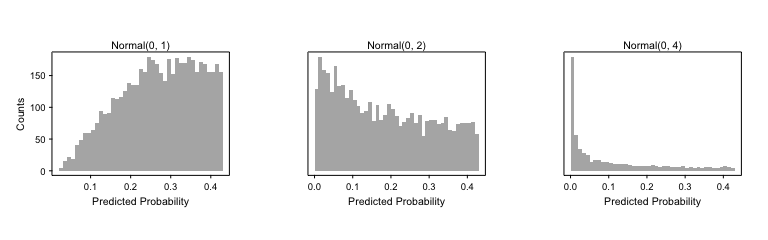
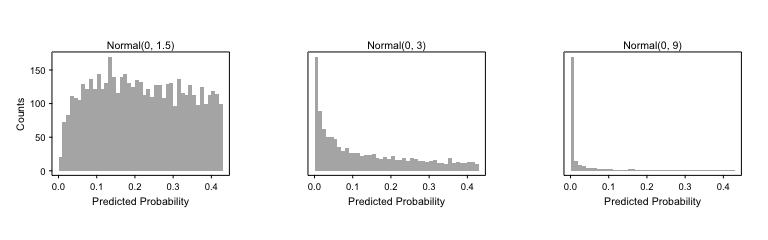
update README

diff --git a/README.md b/README.md
@@ -13,7 +13,77 @@ devtools::install_github("carlislerainey/separation")
 
 The idea is simple. In order to draw meaningful inferences when facing separation, you must choose an informative prior. This can be tricky with logistic regression models, because the coefficients are not on a scale that many researchers are comfortable with. To facilitate choose a reasonable, informative prior, researchers might focus on the partial prior predictive distribution, explained in the paper linked to above. The partial prior distribution allows researchers to focus on the usual quantities of interest, such as predicted probabilities, first-differences, and risk-ratios. Researchers can use this package to what prior distributions for the coefficients imply about the partial prior preditive distribution, which is easier to make sense of.
 
-We can first calculate and summarize the PPPD for an "informative" prior distribution.
+Let's look at a simple example. Suppose we estimate a simple model explaining governors' decisions to oppose the Medicaid expansion under the Affordable Care Act. In particular, we'd like to draw a conclusion about whether a governor's partisanship matters more than the level of need in her state. We might estimate a simple model using the data from [Barrilleaux and Rainey](http://www.carlislerainey.com/papers/need.pdf), which is included in the package `separation` installed above.
+
+
+```r
+data(politics_and_need)
+m <- glm(oppose_expansion ~ gop_governor + percent_uninsured, 
+         family = binomial, data = politics_and_need)
+
+library(texreg)  # for screenreg, which neatly prints the results
+```
+
+```
+## Version:  1.33
+## Date:     2014-07-21
+## Author:   Philip Leifeld (University of Konstanz)
+## 
+## Please cite the JSS article in your publications -- see citation("texreg").
+```
+
+```r
+screenreg(m)
+```
+
+```
+## 
+## ============================
+##                    Model 1  
+## ----------------------------
+## (Intercept)          -20.92 
+##                    (2370.03)
+## gop_governor          19.46 
+##                    (2370.03)
+## percent_uninsured      0.10 
+##                       (0.10)
+## ----------------------------
+## AIC                   46.33 
+## BIC                   52.07 
+## Log Likelihood       -20.17 
+## Deviance              40.33 
+## Num. obs.             50    
+## ============================
+## *** p < 0.001, ** p < 0.01, * p < 0.05
+```
+
+You'll notice that we have separation, because no Democratic governors opposed the expansion, the variable `gop_governor` perfectly predicts zeros. We can see this in a table.
+
+
+```r
+xtabs(~ oppose_expansion + gop_governor, data = politics_and_need)
+```
+
+```
+##                 gop_governor
+## oppose_expansion  0  1
+##                0 20 14
+##                1  0 16
+```
+
+This separation leads to implausibly large estimates for the coefficient for `gop_governor` and, because the perfect prediction occurs when `gop_governor` equals one, the intercept as well. Notice, perhaps most importantly, that the standard errors are unusable as well.
+
+To get a handle on this, we need to provide some form of prior information to stablize the coefficient for `gop_governor`, which will in turn provide a reasonable estimate for the intercept. But what prior should we choose for `gop_governor`? A N(0, 2)? and N(0, 4)? What? To help make this choice, I introduce the concept of a partial prior predictive distribution that allows researchers to focus narrowly on a single region of the prior distribute--the only part that really matters. See [the paper](http://www.carlislerainey.com/papers/separation.pdf) for the details. 
+
+We have three quantities of interest that we might choose to focus on.
+
+1. predicted probability: The probability that a Democratic governor opposes the expansion.
+2. first-difference: The change in the probability of expansion as a governor's partisanship changes from Democrat to Republican.
+3. risk-ratio: How many times more likely is a Republican governor to oppose the expansion compared to a Democratic governor.
+
+In this case, it seems reasonable to focus on the probability that a Democratic governor opposes the expansion. That also happens to be the default quantity for the functions.
+
+Let's choose a N(0, 3) as a first guess at an "informative" prior distribution. (I know this is a reasonable choice because I experimented a little before writing this.) We first need to simulate from our chosen prior and then we can convert those simulation into simulations of predicted probabilities using the function `calc_pppd()`.
 
 
 ```r
@@ -23,36 +93,43 @@ library(separation)
 # load data
 data(politics_and_need)
 
-# simulate from potential priors
-normal_1 <- rnorm(10000, sd = 1)
-normal_2 <- rnorm(10000, sd = 2)
-normal_4 <- rnorm(10000, sd = 4)
+# simulate from potential prior
+normal_3 <- rnorm(10000, sd = 3)
 
 # model formula
 f <- oppose_expansion ~ gop_governor + percent_favorable_aca + percent_uninsured
 
 # informative prior
-pppd_inf <- calc_pppd(f, data = politics_and_need, prior_sims = normal_2,     
-                   sep_var_name = "gop_governor", prior_label = "Normal(0, 2)")
+pppd_inf <- calc_pppd(f, data = politics_and_need, prior_sims = normal_3,     
+                   sep_var_name = "gop_governor", prior_label = "Normal(0, 3)")
+```
 
-# summarize the pppd from the informative prior
+We can summarize the percentiles of the distrubiotn with the generic `print()` function.
+
+
+```r
 print(pppd_inf)
 ```
 
 ```
 ## 
 ## Model:	oppose_expansion ~ gop_governor + percent_favorable_aca + percent_uninsured
-## Prior for gop_governor:	Normal(0, 2)
+## Prior for gop_governor:	Normal(0, 3)
 ## 
 ##    percentile	predicted probability	first-difference	risk-ratio	
-##    1%		0.005			0.006			1.014			
-##    5%		0.014			0.028			1.071			
-##    25%		0.069			0.14			1.483			
-##    50%		0.166			0.262			2.58			
-##    75%		0.289			0.359			6.17			
-##    95%		0.4			0.414			29.71			
-##    99%		0.422			0.424			89.29			
+##    1%		0			0.009			1.022			
+##    5%		0.002			0.046			1.12			
+##    25%		0.024			0.21			1.962			
+##    50%		0.089			0.34			4.83			
+##    75%		0.218			0.404			17.61			
+##    95%		0.383			0.426			201.2			
+##    99%		0.419			0.428			1551			
 ```
+
+That looks reasonable. There is an even chance of the probabilty of opposition falling above and below 0.09, which seems about right. Also, there is a 25% chance that the probability falls below 0.02, which also seems like a reasonable prior belief.
+
+To get an even better feel for this PPPD, we can use the generic `plot()` function to plot the distribution of the predicted probability.
+
 
 ```r
 plot(pppd_inf)
@@ -60,19 +137,61 @@ plot(pppd_inf)
 
 ![plot of chunk inf](inf.png) 
 
-We might also like to compare that to a "skeptical" and "enthusiastic prior"" distribution.
+If we care about the distribution for the tiny probabilities, we can plot the distribution on the log scale. 
 
 
 ```r
+plot(pppd_inf, log_scale = TRUE)
+```
+
+![plot of chunk inf-log](inf-log.png) 
+
+Again, the purpose of the prior distribution in dealing with separation is to rule out implausible large effects. Plotting on the log scale allows us to see exactly what predicted probabilities we are ruling out. We are essentially ruling out probabilities smaller than 0.001, which seems reasonable. 
+
+If we want, we can calculate the probability of falling below certain thresholds.
+
+
+```r
+mean(pppd_inf$pr < 0.01)
+```
+
+```
+## [1] 0.1441
+```
+
+```r
+mean(pppd_inf$pr < 0.001)
+```
+
+```
+## [1] 0.02811
+```
+
+From this we can see that there is a probability of 0.15 that less than 1% of Democratic governors oppose the expansion and a probability of 0.025 that less than 0.1% of Democratic governors oppose the expansion. Again, these seem reasonable.
+
+We might also like to compare our informative prior to a "skeptical" and "enthusiastic" prior distribution. For simplicity, let's go with half and double the standard deviation of the informative prior, respectively. We can calculate the PPPD for these distributions as before and use the `combine_pppd()` function to put them together and then the generic `plot()` function for plotting.
+
+
+```r
+# simulate from potential skeptical and enthusiastic priors
+normal_1 <- rnorm(10000, sd = 1.5)
+normal_4 <- rnorm(10000, sd = 9)
+
 # enthusiastic and skeptical prior
 pppd_enth <- calc_pppd(f, data = politics_and_need, prior_sims = normal_4, 
-                   sep_var_name = "gop_governor", prior_label = "Normal(0, 4)")
+                   sep_var_name = "gop_governor", prior_label = "Normal(0, 9)")
 pppd_skep <- calc_pppd(f, data = politics_and_need, prior_sims = normal_1, 
-                   sep_var_name = "gop_governor", prior_label = "Normal(0, 1)")
+                   sep_var_name = "gop_governor", prior_label = "Normal(0, 1.5)")
 pppds <- combine_pppd(pppd_skep, pppd_inf, pppd_enth)
 
 # plot all pppds for comparisons
 plot(pppds)
 ```
 
-![plot of chunk eth_skep](eth_skep.png) 
+![plot of chunk eth_skep](eth_skep1.png) 
+
+```r
+plot(pppds, log_scale = TRUE)
+```
+
+![plot of chunk eth_skep](eth_skep2.png) 
